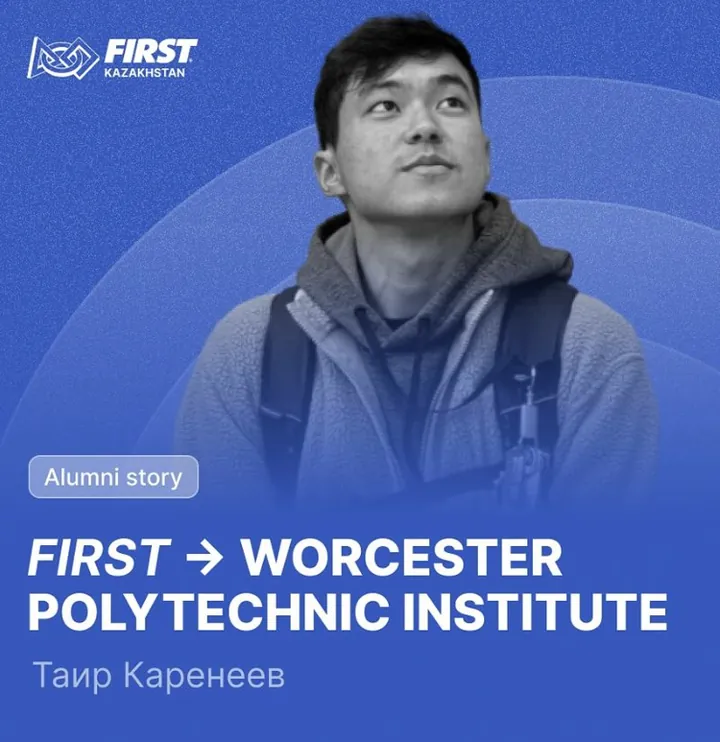
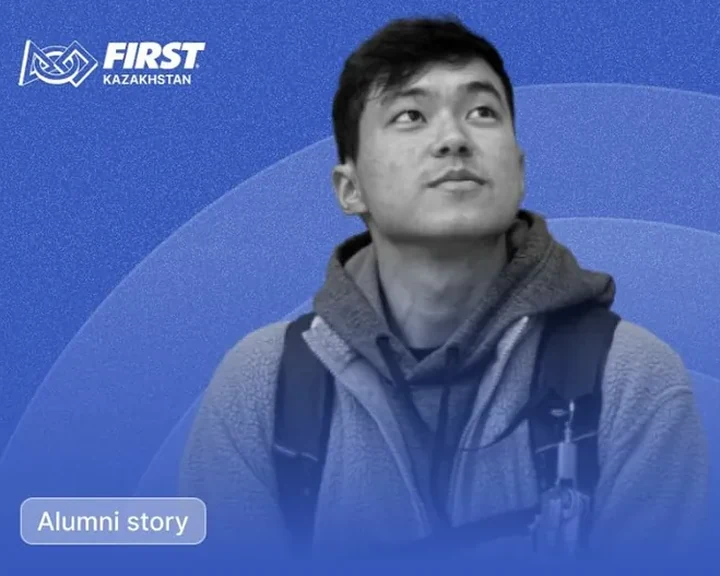
Алумни: убрать дублирующееся имя с фото (#66)
* Alumni cards: crop baked-in text (name, headline) from photos

Photos now show only the portrait in a 4:3 frame; name and path stay in the card caption.

Claude-Session: https://claude.ai/code/session_01Kk9TUqB3hdVaQW646Jyb74

* Alumni cards: keep original covers, crop only the name line

Per feedback the portrait crop was too tight. Photos keep the headline and
"Success story" tag; only the bottom strip with the name is cut off.

Claude-Session: https://claude.ai/code/session_01Kk9TUqB3hdVaQW646Jyb74

* Alumni cards: also crop the university headline from photos

The destination is already shown in the card caption, so photos now end
above the overlaid headline and tag (720x440, logo kept).

Claude-Session: https://claude.ai/code/session_01Kk9TUqB3hdVaQW646Jyb74

* Alumni cards: crop right below the Success story tag

Matches the reference screenshot: logo, portrait and tag stay; the
university headline and name below it are cut. All photos 720x576 (5:4).

Claude-Session: https://claude.ai/code/session_01Kk9TUqB3hdVaQW646Jyb74

---------

diff --git a/assets/js/alumni.js b/assets/js/alumni.js
@@ -5,11 +5,11 @@
  *  ["русский","қазақша","English"] ретімен. Қазақша/ағылшынша бос болса, басқа тілдегі мәтін көрсетіледі;
  *  url   — Instagram посты. */
 const ALUMNI=[
- {photo:"assets/img/alumni/stanford.webp",name:["Амира Махмеджан","Амира Махмеджан","Amira Makhmedzhan"],path:["FIRST → Stanford University","",""],text:["","",""],url:"https://www.instagram.com/p/DDKMTVxt2oR/"},
- {photo:"assets/img/alumni/serikov-cover.webp?v=20261023-0135",name:["Алихан Сериков","Алихан Сериков","Alikhan Serikov"],path:["FIRST → Stanford University","",""],text:["","",""],url:"https://www.instagram.com/p/DW1CnfrjIV5/?img_index=1"},
- {photo:"assets/img/alumni/alibaev.webp",name:["Дамир Алибаев","Дамир Алибаев","Damir Alibayev"],path:["FIRST → University of Toronto","",""],text:["","",""],url:"https://www.instagram.com/p/DHQ53FPtkUF/?img_index=8"},
- {photo:"assets/img/alumni/kareneev.webp",name:["Таир Каренеев","Таир Каренеев","Tair Kareneyev"],path:["FIRST → Worcester Polytechnic Institute","",""],text:["","",""],url:"https://www.instagram.com/p/DEWtDdLM5T5/"},
- {photo:"assets/img/alumni/zhanzakov.webp?v=20261023-0135",name:["Нурсултан Жанзаков","Нұрсұлтан Жанзақов","Nursultan Zhanzakov"],path:["FIRST → Южная Корея","FIRST → Оңтүстік Корея","FIRST → South Korea"],text:["","",""],url:"https://www.instagram.com/p/DD4YOljuqRc/"}
+ {photo:"assets/img/alumni/stanford.webp?v=20261024-1710",name:["Амира Махмеджан","Амира Махмеджан","Amira Makhmedzhan"],path:["FIRST → Stanford University","",""],text:["","",""],url:"https://www.instagram.com/p/DDKMTVxt2oR/"},
+ {photo:"assets/img/alumni/serikov-cover.webp?v=20261024-1710",name:["Алихан Сериков","Алихан Сериков","Alikhan Serikov"],path:["FIRST → Stanford University","",""],text:["","",""],url:"https://www.instagram.com/p/DW1CnfrjIV5/?img_index=1"},
+ {photo:"assets/img/alumni/alibaev.webp?v=20261024-1710",name:["Дамир Алибаев","Дамир Алибаев","Damir Alibayev"],path:["FIRST → University of Toronto","",""],text:["","",""],url:"https://www.instagram.com/p/DHQ53FPtkUF/?img_index=8"},
+ {photo:"assets/img/alumni/kareneev.webp?v=20261024-1710",name:["Таир Каренеев","Таир Каренеев","Tair Kareneyev"],path:["FIRST → Worcester Polytechnic Institute","",""],text:["","",""],url:"https://www.instagram.com/p/DEWtDdLM5T5/"},
+ {photo:"assets/img/alumni/zhanzakov.webp?v=20261024-1710",name:["Нурсултан Жанзаков","Нұрсұлтан Жанзақов","Nursultan Zhanzakov"],path:["FIRST → Южная Корея","FIRST → Оңтүстік Корея","FIRST → South Korea"],text:["","",""],url:"https://www.instagram.com/p/DD4YOljuqRc/"}
 ];
 Object.assign(T.ru,{alh:"Выпускники FIRST® и их путь",alp:"Наши выпускники продолжают путь в науке, технологиях и инженерии. Их истории – тоже наше достижение.",alig:"Читать полностью",alsoon:"История выпускника скоро появится здесь"});
 Object.assign(T.kk,{alh:"FIRST® түлектері және олардың жолы",alp:"Түлектеріміз ғылым, технология және инженерия саласындағы жолын жалғастыруда. Олардың тарихы – біздің де жетістігіміз.",alig:"Толық оқу",alsoon:"Түлектің тарихы жақында осында болады"});

diff --git a/assets/js/app.js b/assets/js/app.js
@@ -251,7 +251,7 @@ function renderAlumni(){const box=$("#alums");if(!box)return;
   const pick=a=>{a=a||[];return a[I[L]]||a[1]||a[0]||a[2]||""};
   const ig=/^https:\/\/(www\.)?instagram\.com\//;
   box.innerHTML=A.map(a=>{const n=pick(a.name),pa=pick(a.path),tx=pick(a.text),u=ig.test(a.url||"")?a.url:"";
-    const ph=a.photo?`<div class="alim" style="background-image:${cu(a.photo)};background-position:${esc(a.pos||"center 25%")}"></div>`
+    const ph=a.photo?`<div class="alim" style="background-image:${cu(a.photo)};background-position:${esc(a.pos||"center")}"></div>`
       :`<div class="alim ph" aria-hidden="true"><svg viewBox="0 0 24 24"><path d="M2 9l10-5 10 5-10 5z"/><path d="M6 11v5c0 1.7 2.7 3 6 3s6-1.3 6-3v-5M22 9v6"/></svg></div>`;
     const body=`${ph}<div class="alb">${n?`<b>${esc(n)}</b>`:""}${pa?`<span class="alpa">${esc(pa)}</span>`:""}${tx||!(n||pa)?`<p>${esc(tx||tt("alsoon"))}</p>`:""}${u?`<span class="alig">${esc(tt("alig"))} <svg viewBox="0 0 24 24" aria-hidden="true"><path d="M5 12h14M13 6l6 6-6 6"/></svg></span>`:""}</div>`;
     return u?`<a class="alc" href="${esc(u)}" target="_blank" rel="noopener noreferrer">${body}</a>`:`<article class="alc">${body}</article>`}).join("");

diff --git a/index.html b/index.html
@@ -14,7 +14,7 @@
 <link rel="preconnect" href="https://fonts.gstatic.com" crossorigin>
 <link href="https://fonts.googleapis.com/css2?family=Inter:ital,wght@0,400;0,500;0,600;0,700;0,800;1,400;1,500;1,600;1,700;1,800&display=swap" rel="stylesheet">
 <script src="assets/js/top.js?v=20261023-0045"></script>
-<link rel="stylesheet" href="assets/css/style.css?v=20261023-1300">
+<link rel="stylesheet" href="assets/css/style.css?v=20261024-1710">
 </head>
 <body>
 
@@ -229,11 +229,11 @@
 
 <script src="assets/js/data.js?v=20261023-1230"></script>
 <script src="assets/js/kzmap.js?v=20261023-0140"></script>
-<script src="assets/js/alumni.js?v=20261023-0145"></script>
+<script src="assets/js/alumni.js?v=20261024-1710"></script>
 <script src="assets/data/sheet.js"></script>
 <script src="assets/data/news.js"></script>
 <script src="assets/data/status.js"></script>
 <script src="assets/data/site.js"></script>
-<script src="assets/js/app.js?v=20261023-1300"></script>
+<script src="assets/js/app.js?v=20261024-1710"></script>
 </body>
 </html>

diff --git a/assets/css/style.css b/assets/css/style.css
@@ -201,7 +201,7 @@ h2.t.ul:after,h1.t.ul:after{content:"";display:block;width:96px;height:2px;backg
 #alumni .wh{margin-bottom:12px}
 .alsub{margin:0 0 36px}
 .alc{flex:0 0 calc((100% - 48px)/3);scroll-snap-align:start;display:flex;flex-direction:column;overflow:hidden;background:#fff;border:1px solid var(--line);border-radius:12px;box-shadow:none;transition:border-color .2s,box-shadow .2s}
-.alim{aspect-ratio:1/1.03;background-size:cover;background-position:center 25%;background-color:#eef3fc}
+.alim{aspect-ratio:5/4;background-size:cover;background-position:center;background-color:#eef3fc}
 .alim.ph{display:grid;place-items:center}
 .alim.ph svg{width:64px;height:64px;fill:none;stroke:var(--blue2);stroke-width:1.4;stroke-linecap:round;stroke-linejoin:round}
 .alb{display:flex;flex-direction:column;gap:8px;padding:22px 24px 24px;flex:1}

diff --git a/404.html b/404.html
@@ -7,7 +7,7 @@
 <meta name="robots" content="noindex">
 <meta http-equiv="Content-Security-Policy" content="default-src 'self'; script-src 'self'; style-src 'self' 'unsafe-inline' https://fonts.googleapis.com; font-src https://fonts.gstatic.com; img-src 'self' data:; object-src 'none'; base-uri 'none'; form-action 'none'">
 <link rel="icon" type="image/png" href="/assets/img/x-logo.webp">
-<link rel="stylesheet" href="/assets/css/style.css?v=20261023-1300">
+<link rel="stylesheet" href="/assets/css/style.css?v=20261024-1710">
 <script src="/assets/js/notfound.js?v=20261020f"></script>
 </head>
 <body>

diff --git a/news.html b/news.html
@@ -10,7 +10,7 @@
 <link rel="preconnect" href="https://fonts.googleapis.com">
 <link rel="preconnect" href="https://fonts.gstatic.com" crossorigin>
 <link href="https://fonts.googleapis.com/css2?family=Inter:ital,wght@0,400;0,500;0,600;0,700;0,800;1,700;1,800&display=swap" rel="stylesheet">
-<link rel="stylesheet" href="assets/css/style.css?v=20261023-1300">
+<link rel="stylesheet" href="assets/css/style.css?v=20261024-1710">
 </head>
 <body>
 
